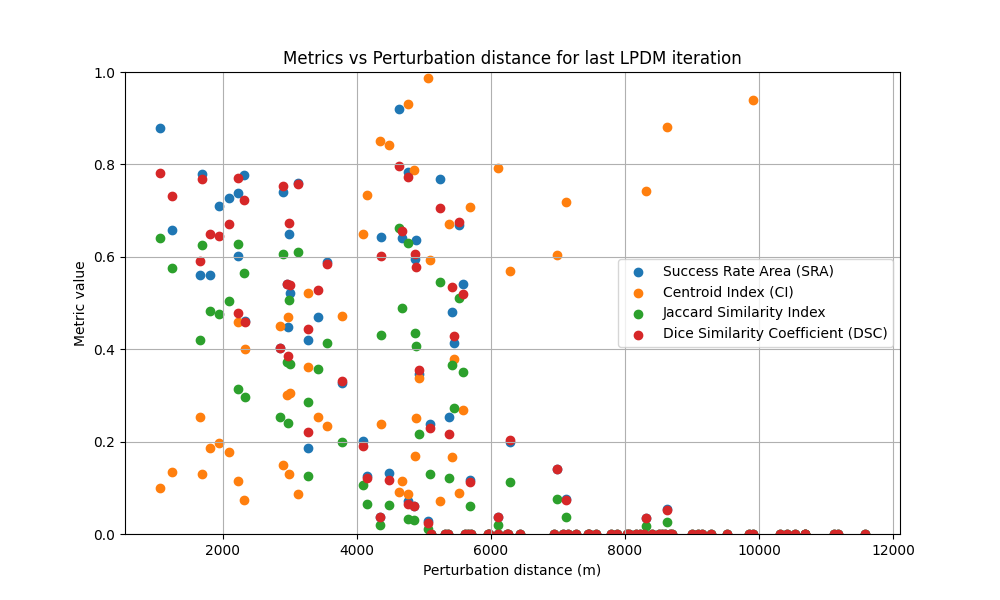
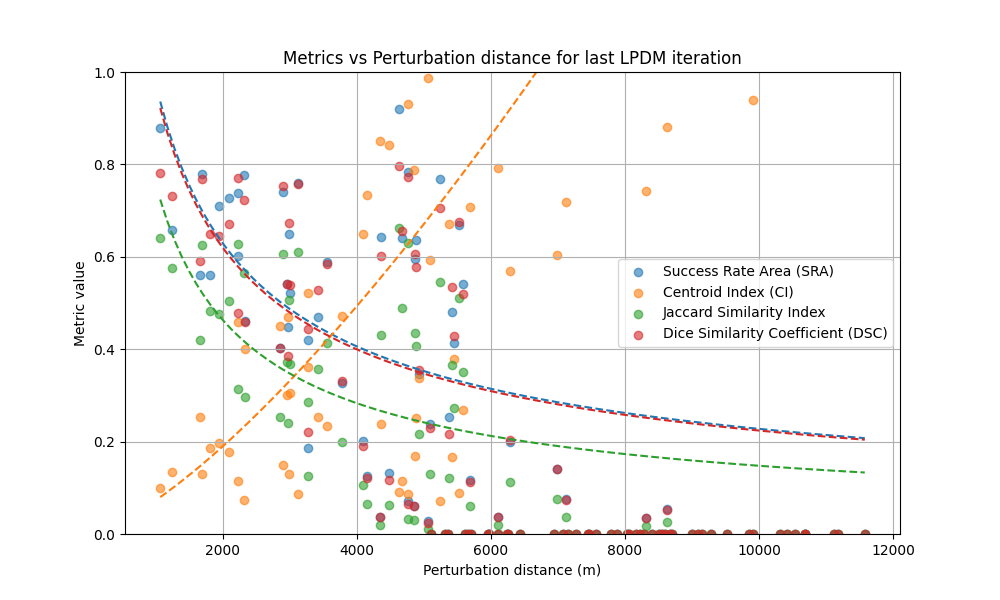
test sensivity analysis_2 completed

diff --git a/add_cell.py b/add_cell.py
@@ -1,0 +1,75 @@
+import json
+
+with open('heco/sensivity_analysis/sensivity_analysis_2.ipynb', 'r') as f:
+    nb = json.load(f)
+
+new_cell = {
+    "cell_type": "code",
+    "execution_count": None,
+    "metadata": {},
+    "outputs": [],
+    "source": [
+        "from scipy.optimize import curve_fit\n",
+        "import numpy as np\n",
+        "import pandas as pd\n",
+        "import matplotlib.pyplot as plt\n",
+        "\n",
+        "metrics_last_iteration = pd.read_csv('sa_2_2/heco_results_test_polygons_metrics_last_iteration.csv')\n",
+        "\n",
+        "def power_law(x, a, b):\n",
+        "    return a * (x ** b)\n",
+        "\n",
+        "# plot diagrams of metrics_last_iteration\n",
+        "#sort by perturbation distance\n",
+        "metrics_last_iteration = metrics_last_iteration.sort_values(by=['origin_perturbation'], ascending=[True])\n",
+        "\n",
+        "plt.figure(figsize=(10, 6))\n",
+        "plt.title('Metrics vs Perturbation distance for last LPDM iteration (with 90% Confidence Bounds)')\n",
+        "plt.xlabel('Perturbation distance (m)')\n",
+        "plt.ylabel('Metric value')\n",
+        "\n",
+        "variables = [\n",
+        "    ('SRA', 'Success Rate Area (SRA)', 'tab:blue'),\n",
+        "    ('CI', 'Centroid Index (CI)', 'tab:orange'),\n",
+        "    ('Jaccard', 'Jaccard Similarity Index', 'tab:green'),\n",
+        "    ('DICE', 'Dice Similarity Coefficient (DSC)', 'tab:red')\n",
+        "]\n",
+        "\n",
+        "x_data = metrics_last_iteration['origin_perturbation'].values\n",
+        "# avoid zero for power law\n",
+        "x_fit = np.linspace(max(0.1, x_data.min()), x_data.max(), 100)\n",
+        "\n",
+        "for var, label, color in variables:\n",
+        "    y_data = metrics_last_iteration[var].values\n",
+        "    plt.scatter(x_data, y_data, label=label, color=color, alpha=0.6)\n",
+        "    \n",
+        "    # Fit power law trendline\n",
+        "    try:\n",
+        "        mask = (x_data > 0) & (y_data > 0)\n",
+        "        if np.sum(mask) > 2:\n",
+        "            popt, pcov = curve_fit(power_law, x_data[mask], y_data[mask], maxfev=10000)\n",
+        "            plt.plot(x_fit, power_law(x_fit, *popt), color=color, linestyle='--')\n",
+        "            \n",
+        "            # Calculate 90% confidence bounds using Monte Carlo sampling\n",
+        "            samples = np.random.multivariate_normal(popt, pcov, 1000)\n",
+        "            y_fits = np.array([power_law(x_fit, *s) for s in samples])\n",
+        "            lower_bound = np.percentile(y_fits, 5, axis=0)\n",
+        "            upper_bound = np.percentile(y_fits, 95, axis=0)\n",
+        "            plt.fill_between(x_fit, lower_bound, upper_bound, color=color, alpha=0.15)\n",
+        "    except Exception as e:\n",
+        "        print(f'Could not fit trendline for {var}: {e}')\n",
+        "\n",
+        "plt.legend()\n",
+        "plt.ylim(0, 1)\n",
+        "plt.grid()\n",
+        "plt.savefig('sa_2_2/metrics_vs_origin_perturbation_last_iteration_bounds.png')\n",
+        "plt.show()\n"
+    ]
+}
+
+nb['cells'].append(new_cell)
+
+with open('heco/sensivity_analysis/sensivity_analysis_2.ipynb', 'w') as f:
+    json.dump(nb, f, indent=1)
+
+print("Appended a new cell at the bottom of the notebook.")